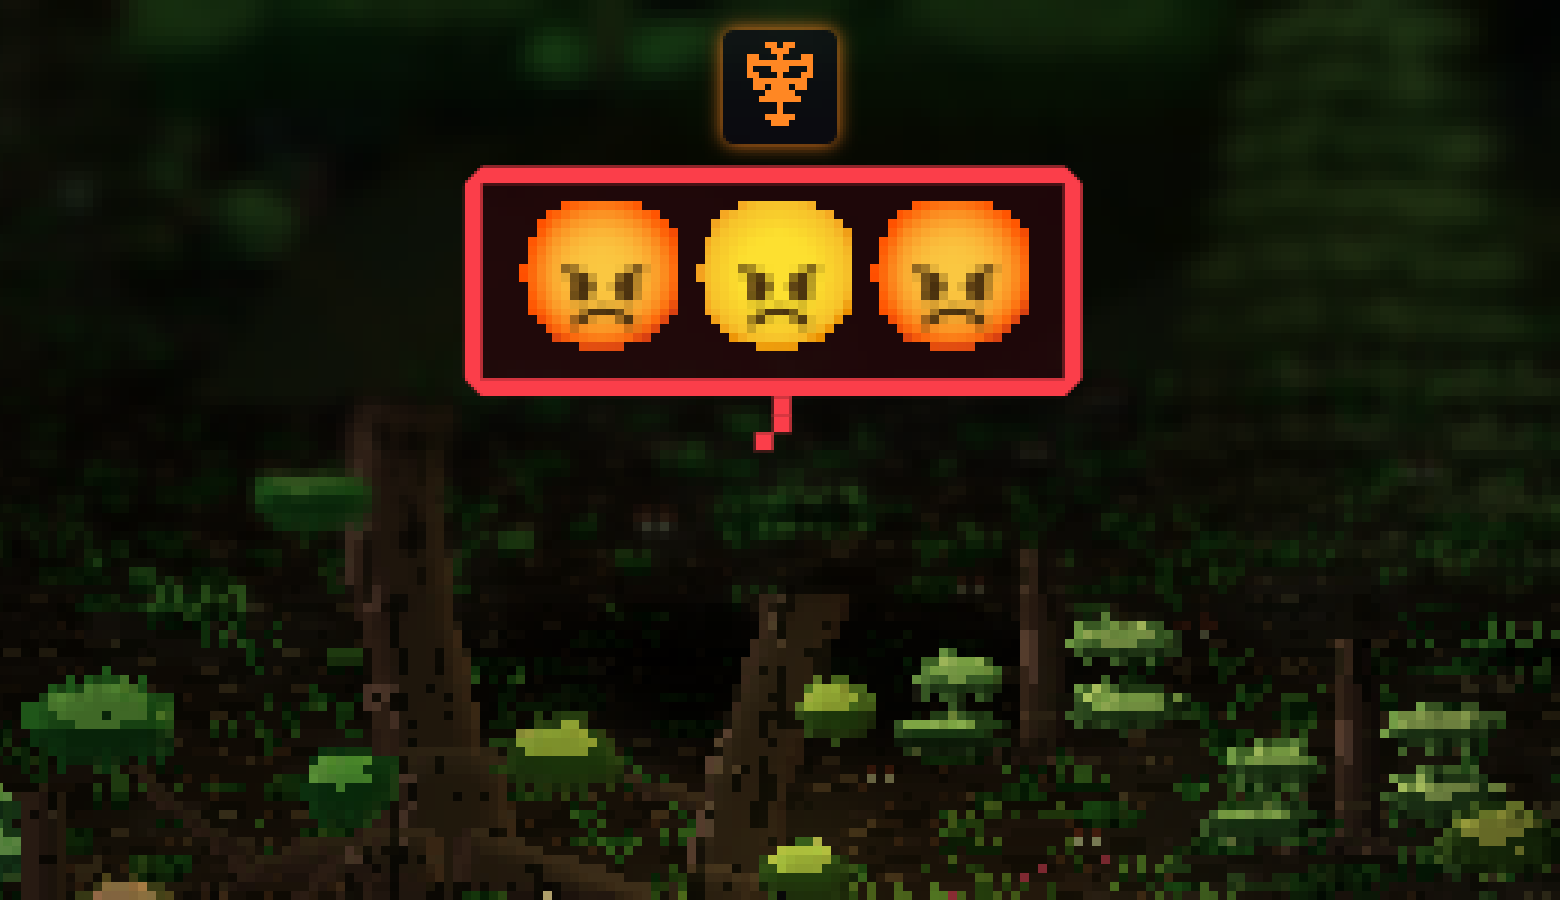
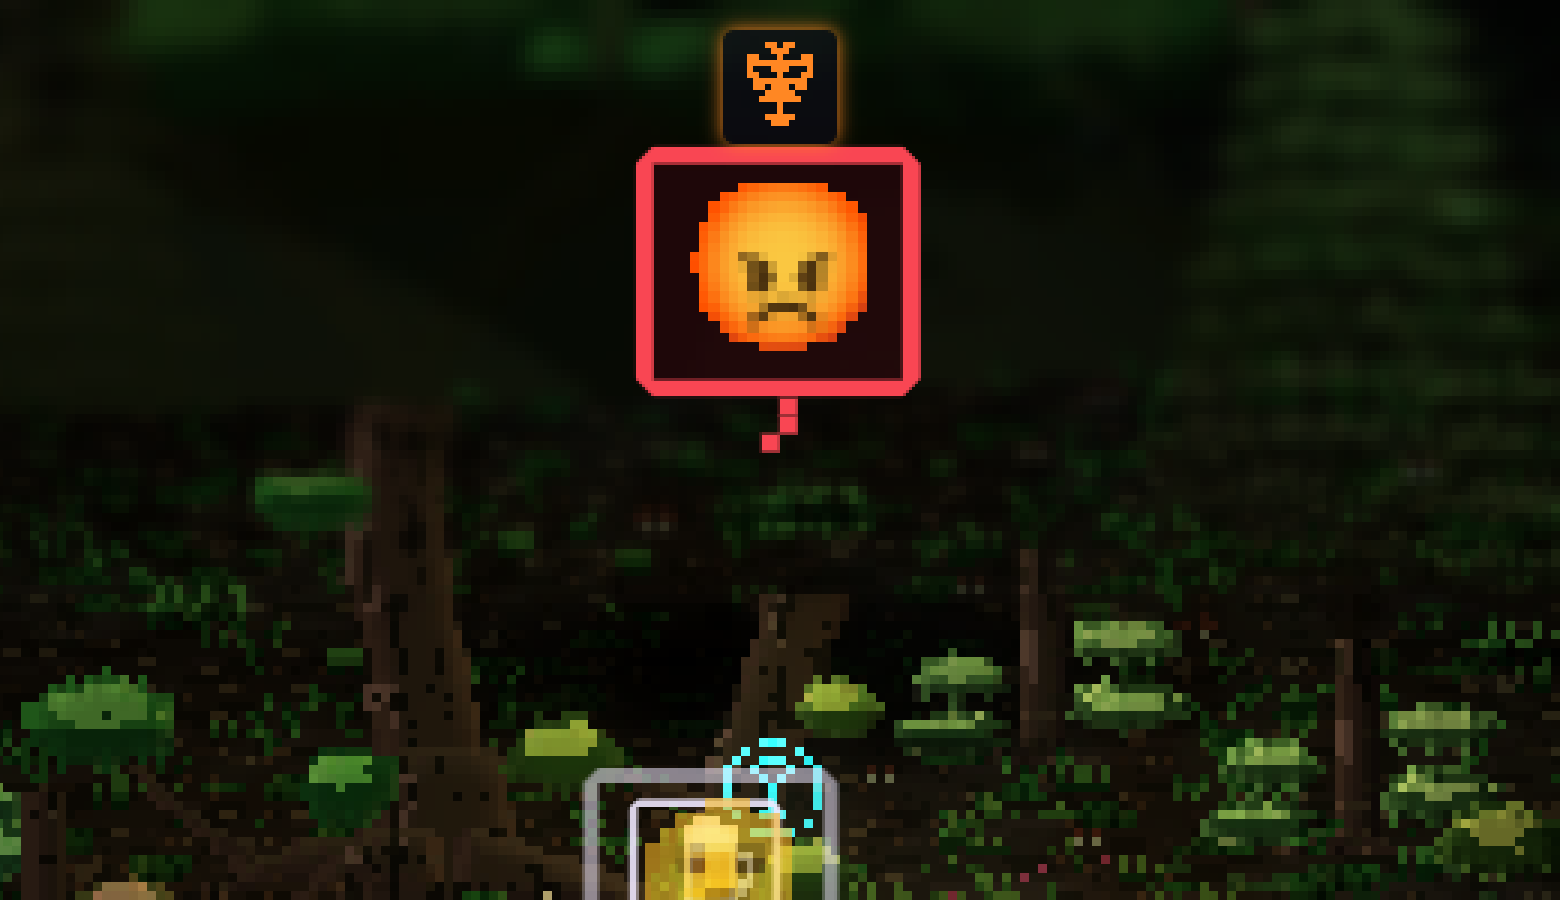
Nightmare: one face, slightly sad to angry
Ed (2026-10-05): one face in a nightmare bubble, never several, stepping
from slightly sad to angry as restlessness rises: dreams.nightmare in the
tuning (faces 🙁 😟 😢 😣 😠 😡 from restlessness 0.05, 0.25, 0.45, 0.65,
0.82, 0.95). The reddening and the shake follow restlessness squared, so
they're gentle while it's only sad. After its quest closes, just the face.

Claude-Session: https://claude.ai/code/session_01VpVux54r6d7xX8jYKXai88

diff --git a/src/render/leash.ts b/src/render/leash.ts
@@ -329,16 +329,19 @@ export class LeashView {
       const y = Math.min(this.tops.get(c.id) ?? 2, 4.5) + 1.2;
       placed(this.v.set(c.x, y, c.z)).project(camera);
       if (this.v.z > 1 || Math.abs(this.v.x) > 1.1 || Math.abs(this.v.y) > 1.1) continue;
-      // Restless (#87: its area has none of its kind), the dream turns to a nightmare: angry faces
-      // crowd in round the sigil it wants as it worsens, redder, the sigil fading (bring one back).
-      // Once its quest has closed (its area's soundsystem on: Ed, 2026-10-05) the dream is gone, but
-      // not a nightmare: just the faces then.
-      const q = c.quest!, r = restlessness(c), faces = r <= 0.05 ? 0 : r < 0.4 ? 1 : r < 0.75 ? 2 : 3, fury = r >= 0.75 ? 2 : r >= 0.4 ? 1 : 0, open = questOpen(g.party, c);
+      // Restless (#87: its area has none of its kind), the dream turns to a nightmare (Ed, 2026-10-05):
+      // one face by the sigil it wants, slightly sad at first, sadder, upset, then angry
+      // (dreams.nightmare), the sigil fading (bring one back). Once its quest has closed (its
+      // area's soundsystem on) the dream is gone, but not a nightmare: just the face then.
+      const q = c.quest!, r = restlessness(c), N = g.tuning.dreams.nightmare, open = questOpen(g.party, c);
+      let step = -1;
+      for (let k = 0; k < N.at.length; k++) if (r >= N.at[k]) step = k;
+      const faces = step >= 0 ? 1 : 0, ire = r * r; // (the reddening and the shake gentle while it's only sad)
       if (!open && !faces) continue;
       let el = this.dreamEls[used];
       if (!el) { el = document.createElement("div"); el.className = "bubble dream on"; host.append(el); this.dreamEls.push(el); }
       el.style.display = "";
-      const key = `${q.species}:${q.level}:${faces}:${fury}:${open}`;
+      const key = `${q.species}:${q.level}:${step}:${open}`;
       if (el.dataset.e !== key) {
         el.dataset.e = key;
         const cv = document.createElement("canvas"), n = 44;
@@ -351,19 +354,20 @@ export class LeashView {
           for (let i = 3; i < d.data.length; i += 4) d.data[i] = d.data[i] > 90 ? 255 : 0;
           x.putImageData(d, 0, 0);
         }
-        // (its faces in finer pixels than a chat face: their brows must read)
-        const face = (i: number) => { const f = this.pixelEmoji(fury === 2 && i !== 1 ? "😡" : "😠", 0.8, 18); f.classList.add("face"); return f; };
-        el.replaceChildren(...(faces >= 2 ? [face(0)] : []), ...(open ? [cv] : []), ...(faces >= 1 ? [face(1)] : []), ...(faces >= 3 ? [face(2)] : []));
+        // (its face in finer pixels than a chat face: its brows must read)
+        const face = step >= 0 ? this.pixelEmoji(N.faces[step] ?? "😠", 0.9, 18) : null;
+        face?.classList.add("face");
+        el.replaceChildren(...(open ? [cv] : []), ...(face ? [face] : []));
         el.classList.toggle("nightmare", faces > 0);
       }
       el.style.setProperty("--px", `${bubblePx(c.level)}px`);
       (el.querySelector("canvas:not(.face)") as HTMLElement | null)?.style.setProperty("opacity", `${1 - 0.75 * r}`);
-      if (faces) el.style.setProperty("--ink", `rgba(${Math.round(225 + 30 * r)}, ${Math.round(215 - 160 * r)}, ${Math.round(255 - 190 * r)}, ${(0.85 + 0.15 * r).toFixed(2)})`);
+      if (faces) el.style.setProperty("--ink", `rgba(${Math.round(225 + 30 * ire)}, ${Math.round(215 - 160 * ire)}, ${Math.round(255 - 190 * ire)}, ${(0.85 + 0.15 * ire).toFixed(2)})`);
       else el.style.removeProperty("--ink");
       const bx = ((this.v.x + 1) / 2) * width, by = ((1 - this.v.y) / 2) * height;
       el.style.left = `${bx}px`;
       el.style.top = `${by}px`;
-      const shake = faces ? r * 2.5 * Math.sin(performance.now() * 0.05 + c.id) : 0; // (a nightmare shakes)
+      const shake = faces ? ire * 2.5 * Math.sin(performance.now() * 0.05 + c.id) : 0; // (a nightmare shakes)
       el.style.transform = `translate(calc(-50% + ${shake.toFixed(1)}px), -100%)`;
       // Its direction (rules/dream.ts): a soft glow on the side of the bubble facing the runestone
       // of the nearest area of the kind it dreams of, explored or not.

diff --git a/src/rules/tuning.ts b/src/rules/tuning.ts
@@ -186,7 +186,7 @@ export interface Tuning {
   population: { start: { babies: number; young: number; adults: number }; growth: { on: boolean; perWave: number; weights: number[]; hide: number } };
   /** Area legends (Ed, 2026-10-04): one an area, asleep till its area's wave, then a mini-boss guarding it. */
   /** A sleeping legend's dream bubble (Ed, 2026-10-05): shown only to a witch on the ground within range metres of it. */
-  dreams: { range: number };
+  dreams: { range: number; nightmare: { at: number[]; faces: string[] } };
   wildLegends: { wake: number; sink: number; moss: number; guard: number; heal: number; scale: number; breathe: number; breathEvery: number; aura: number; glow: number };
   creatureSimRadius: number;
   creatureSpeed: number;
